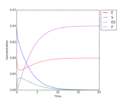
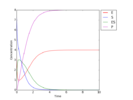
Biochemical reactions - Implemented

diff --git a/BioReactors/templates/BioReactors/restblocks/html/BiochemicalReactionsDoc.html b/BioReactors/templates/BioReactors/restblocks/html/BiochemicalReactionsDoc.html
@@ -99,10 +99,10 @@ reactants and products with time <span class="math">\(t\)</span>:</p>
 </blockquote>
 <p>One solution of the system is shown on the <a class="reference internal" href="#figure" target="_self">figure</a> below.</p>
 <div class="figure align-center" id="figure">
-<img alt="/static/BioReactors/img/ModuleImages/ReactionRateEquations.png" src="/static/BioReactors/img/ModuleImages/ReactionRateEquations.png" />
+<img alt="/static/BioReactors/img/ModuleImages/BiochemicalReactions.png" src="/static/BioReactors/img/ModuleImages/BiochemicalReactions.png" />
 <p class="caption">Michaelis–Menten kinetics: change in concentrations over time for enzyme E, substrate S, complex ES and product P
-with initial concentrations <span class="math">\([E]_0 = 0.1, [S]_0 = 0.2, [ES]_0 = [P]_0 = 0\)</span> and
-rate constants <span class="math">\(k_f = 10.1, k_r = 1.1, k_\mathrm{cat} = 1.1\)</span>.</p>
+with initial concentrations <span class="math">\([E]_0 = 4.0, [S]_0 = 8.0, [ES]_0 = [P]_0 = 0.0\)</span> and
+rate constants <span class="math">\(k_f = 2.0, k_r = 1.0, k_\mathrm{cat} = 1.5\)</span>.</p>
 </div>
 </div>
 <div class="section" id="references">

diff --git a/smo/dynamical_models/bioreactors/BiochemicalReactions.py b/smo/dynamical_models/bioreactors/BiochemicalReactions.py
@@ -30,29 +30,29 @@ class BiochemicalReactions(Simulation):
     """
     def __init__(self, params = None, **kwargs):
         """
-        #params.equations = [Eqs, kForward, kBackward]
-        #params.variables = [Xs, X0s]
+        #params.reactions = [reactions, kForward, kBackward]
+        #params.variables = [variableName, initialValue]
         """
         super(BiochemicalReactions, self).__init__(**kwargs)
         if params == None:
             params = AttributeDict(kwargs)
         
-        # Get the variables Xs = [X1, X2, ..., Xn] 
+        # Get the variables Xs = [X1, X2, ..., Xn] and their initial values
         self.Xs = np.empty(len(params.variables), dtype=(np.str_, 256))
         self.X0s = np.zeros(len(params.variables))
         for i, var in enumerate(params.variables):
             self.Xs[i] = var[0]
             self.X0s[i] = var[1]
         
-        # Get the equations = [[left Xs, right Xs, k, ss, rs, f], ...], where: 
-        # left Xs - the variables of reactants (i.e. the variables of the left parts of the equations)
-        # rigth Xs - the variables of products (i.e. the variables of the right parts of the equations)
+        # Get the reactions = [[left Xs, right Xs, k, ss, rs, f], ...], where: 
+        # left Xs - the variables of reactants (i.e. the variables of the left parts of the reactions)
+        # rigth Xs - the variables of products (i.e. the variables of the right parts of the reactions)
         # k - the rate constant of the reaction
         # ss - the stoichiometric coefficients of reactants  (e.g. [0,1,1,0,...,1])
         # rs - the stoichiometric coefficients of products (e.g. [1,0,...,0])
         # f - the fluxs (e.g. k*X2*X3*...*Xn)
-        self.equations = self.readEquations(params.equations, self.Xs)
-        #for eq in self.equations: print eq
+        self.reactions = self.readReactions(params.reactions, self.Xs)
+        #for reaction in self.reactions: print reaction
         
         # Create a vector with state variable names
         stateVarNames = list(self.Xs) 
@@ -72,58 +72,58 @@ class BiochemicalReactions(Simulation):
         # Set the initial flags
         self.sw0 = [True]
         
-    def readEquations(self, equations, Xs):
-        resEquations = []
-        for rowEq in equations:
-            txtEq = rowEq[0]
-            txtEq_orig = txtEq
-            txtEq = txtEq.replace(" ", "")           
+    def readReactions(self, reactions, Xs):
+        resReactions = []
+        for reaction in reactions:
+            txtReaction = reaction[0]
+            txtReaction_orig = txtReaction
+            txtReaction = txtReaction.replace(" ", "")           
             
-            # Get and check the direction of the equation
-            dirEq =  re.findall("[-=<>]+", txtEq)
-            if len(dirEq) == 0:
-                raise ValueError("\nInvalid equation '{0}'.\nThe direction of the reaction is missing" 
-                    ", use one of {1}".format(txtEq_orig, validReactionDiractions))
-            if len(dirEq) > 1:
-                raise ValueError("\nInvalid equation '{0}'.\nToo many directions of the reaction.".format(txtEq_orig))
+            # Get and check the direction of the reaction
+            dirReaction =  re.findall("[-=<>]+", txtReaction)
+            if len(dirReaction) == 0:
+                raise ValueError("\nInvalid reaction '{0}'.\nThe direction of the reaction is missing" 
+                    ", use one of {1}".format(txtReaction_orig, validReactionDiractions))
+            if len(dirReaction) > 1:
+                raise ValueError("\nInvalid reaction '{0}'.\nToo many directions of the reaction.".format(txtReaction_orig))
             
-            dirEq = dirEq[0]
-            if not (dirEq in validReactionDiractions):
-                raise ValueError("\nInvalid equation '{0}'.\nThe direction of the reaction '{1}' is wrong" 
-                    ", use one of {2}".format(txtEq_orig, dirEq, validReactionDiractions))
+            dirReaction = dirReaction[0]
+            if not (dirReaction in validReactionDiractions):
+                raise ValueError("\nInvalid reaction '{0}'.\nThe direction of the reaction '{1}' is wrong" 
+                    ", use one of {2}".format(txtReaction_orig, dirReaction, validReactionDiractions))
                 
-            kForward = rowEq[1]
-            if kForward == 0.0 and dirEq in forwardReactionDiractions:
-                raise ValueError("\nInvalid equation '{0}'.\nThe direction of the reaction is '{1}', " 
-                    "but the forward rate constant is {2}".format(txtEq_orig, dirEq, kForward))
+            kForward = reaction[1]
+            if kForward == 0.0 and dirReaction in forwardReactionDiractions:
+                raise ValueError("\nInvalid reaction '{0}'.\nThe direction of the reaction is '{1}', " 
+                    "but the forward rate constant is {2}".format(txtReaction_orig, dirReaction, kForward))
                  
-            kBackward = rowEq[2]
-            if kBackward == 0.0 and dirEq in backwardReactionDiractions:
-                raise ValueError("\nInvalid equation '{0}'.\nThe direction of the reaction is '{1}', " 
-                    "but the backward rate constant is {2}".format(txtEq_orig, dirEq, kBackward))
+            kBackward = reaction[2]
+            if kBackward == 0.0 and dirReaction in backwardReactionDiractions:
+                raise ValueError("\nInvalid reaction '{0}'.\nThe direction of the reaction is '{1}', " 
+                    "but the backward rate constant is {2}".format(txtReaction_orig, dirReaction, kBackward))
             
-            # Get and check the equation parts
-            partsEq = re.split("[-=<>]+", txtEq)
-            if len(partsEq) <> 2:
-                raise ValueError("\nInvalid equation '{0}'.".format(txtEq_orig))
+            # Get and check the reaction parts
+            partsReaction = re.split("[-=<>]+", txtReaction)
+            if len(partsReaction) <> 2:
+                raise ValueError("\nInvalid reaction '{0}'.".format(txtReaction_orig))
             
-            # Get and check the Xs of the leftPart of the equation
-            leftPartEq = partsEq[0]
+            # Get and check the Xs of the leftPart of the reaction
+            leftPartEq = partsReaction[0]
             leftXs = leftPartEq.split('+')
             for X in leftXs:
                 if not X in Xs:
-                    raise ValueError("\nInvalid equation '{0}'.\nInvalid variable "
-                        "'{1}', use one of {2}".format(txtEq_orig, X, Xs))
+                    raise ValueError("\nInvalid reaction '{0}'.\nInvalid variable "
+                        "'{1}', use one of {2}".format(txtReaction_orig, X, Xs))
             
-            rightPartEq = partsEq[1]
+            rightPartEq = partsReaction[1]
             rightXs = rightPartEq.split('+')
             for X in rightXs:
                 if not X in Xs:
-                    raise ValueError("\nInvalid equation '{0}'.\nInvalid variable "
-                        "'{1}', use one of {2}".format(txtEq_orig, X, Xs))
+                    raise ValueError("\nInvalid reaction '{0}'.\nInvalid variable "
+                        "'{1}', use one of {2}".format(txtReaction_orig, X, Xs))
             
-            # Add to the equations
-            if dirEq in forwardReactionDiractions:
+            # Add to the reactions
+            if dirReaction in forwardReactionDiractions:
                 f = ""
                 ss = np.zeros(len(Xs))
                 for X in leftXs:
@@ -136,9 +136,9 @@ class BiochemicalReactions(Simulation):
                 for X in rightXs:
                     i = np.where(Xs == X)
                     rs[i] = 1             
-                resEquations.append([leftXs, rightXs, kForward, ss, rs, f])
+                resReactions.append([leftXs, rightXs, kForward, ss, rs, f])
                 
-            if dirEq in backwardReactionDiractions:
+            if dirReaction in backwardReactionDiractions:
                 f = ""
                 ss = np.zeros(len(Xs))
                 for X in rightXs:
@@ -151,25 +151,25 @@ class BiochemicalReactions(Simulation):
                 for X in leftXs:
                     i = np.where(Xs == X)
                     rs[i] = 1          
-                resEquations.append([rightXs, leftXs, kBackward, ss, rs, f])
+                resReactions.append([rightXs, leftXs, kBackward, ss, rs, f])
                 
-        return resEquations
+        return resReactions
     
     def rhs(self, t, y, sw):
         yDot = np.zeros(len(y))           
         try:
             # Compute fluxes
-            fs = np.ones(len(self.equations))
-            for j, eq in enumerate(self.equations):
-                (_leftXs, _rightXs, k, ss, _rs, _f) = self.splitEquation(eq)
+            fs = np.ones(len(self.reactions))
+            for j, eq in enumerate(self.reactions):
+                (_leftXs, _rightXs, k, ss, _rs, _f) = self.splitReaction(eq)
                 fs[j] = k
                 for i in range(len(y)):
                     fs[j] *= np.power(y[i], ss[i])
             
             # Compute state derivatives
             for i in range(len(y)):
-                for j, eq in enumerate(self.equations):
-                    (_leftXs, _rightXs, _k, ss, rs, _f) = self.splitEquation(eq)
+                for j, eq in enumerate(self.reactions):
+                    (_leftXs, _rightXs, _k, ss, rs, _f) = self.splitReaction(eq)
                     S = rs[i] - ss[i]
                     yDot[i] += S*fs[j]
                 
@@ -230,8 +230,6 @@ class BiochemicalReactions(Simulation):
         ax.set_xlabel('Time')
         ax.set_ylabel('Concentration')
         
-        #plt.title('Reaction rate equations')
-        
         plt.show()
         
     def getColors(self):
@@ -259,8 +257,8 @@ class BiochemicalReactions(Simulation):
         # Plot ODEs
         for i, X in enumerate(self.Xs):
             odeTxt = r"${%s}\mathtt{\/}' = "%X
-            for eq in self.equations:
-                (_leftXs, _rightXs, _k, ss, rs, f) = self.splitEquation(eq)
+            for eq in self.reactions:
+                (_leftXs, _rightXs, _k, ss, rs, f) = self.splitReaction(eq)
                 S = rs[i] - ss[i]
                 if S < 0.0:
                     if odeTxt.endswith("= "):
@@ -283,8 +281,8 @@ class BiochemicalReactions(Simulation):
         resTxt = ""
         for i, X in enumerate(self.Xs):
             resTxt += "{0}' = ".format(X)
-            for eq in self.equations:
-                (_leftXs, _rightXs, _k, ss, rs, f) = self.splitEquation(eq)
+            for eq in self.reactions:
+                (_leftXs, _rightXs, _k, ss, rs, f) = self.splitReaction(eq)
                 S = rs[i] - ss[i]
                 if S < 0.0:
                     if resTxt.endswith("= "):
@@ -299,7 +297,7 @@ class BiochemicalReactions(Simulation):
             resTxt += "\n"
         return resTxt
     
-    def splitEquation(self, eq):
+    def splitReaction(self, eq):
         return (eq[0], eq[1], eq[2], eq[3], eq[4], eq[5])
     
 def TestBiochemicalReactions():
@@ -315,8 +313,8 @@ def TestBiochemicalReactions():
     })
     
     # Initialize model parameters
-    dt = np.dtype([('equations', np.str_, 256), ('kForward', np.float64, (1)), ('kBackward', np.float64, (1))])
-    equations = np.array([
+    dt = np.dtype([('reaction', np.str_, 256), ('kForward', np.float64, (1)), ('kBackward', np.float64, (1))])
+    reactions = np.array([
         ("E + S = ES", 10.1, 1.1),
         #("E + S <=> ES", 1.1, 2.2),
         #("E + S <-> ES", 1.1, 2.2),  
@@ -326,7 +324,7 @@ def TestBiochemicalReactions():
         #("ES <= E + P", 0.0, 2.2),
     ], dtype = dt)
     
-    dt_vars = np.dtype([('variables', np.str_, 256), ('initValue', np.float64, (1))])
+    dt_vars = np.dtype([('variableName', np.str_, 256), ('initialValue', np.float64, (1))])
     variables = np.array([
         ('E', 0.1),
         ('S', 0.2),
@@ -335,7 +333,7 @@ def TestBiochemicalReactions():
     ], dtype = dt_vars)
         
     modelParams = AttributeDict({
-        'equations' : equations,
+        'reactions' : reactions,
         'variables' : variables,
     })
     

diff --git a/BioReactors/models/BiochemicalReactions.py b/BioReactors/models/BiochemicalReactions.py
@@ -14,15 +14,11 @@ from smo.web.modules import RestModule
 class BiochemicalReactions(NumericalModel):
     label = "Biochemical reactions"
     description = F.ModelDescription("Solver for elementary biochemical reactions", show = True)
-    figure = F.ModelFigure(src="BioReactors/img/ModuleImages/BiochemicalReactions.png", show = False)
-    #:TODO: (MILEN) Rename:
-    # equations -> reactions
-    # variables -> species
-    
+    figure = F.ModelFigure(src="BioReactors/img/ModuleImages/BiochemicalReactions.png", show = False)   
     
     #1. ############ Inputs ###############
     #1.1 Fields - Input values
-    equations = F.RecordArray((     
+    reactions = F.RecordArray((     
             ('reaction', F.String('E + S -> ES', label = 'Reactions', inputBoxWidth = 200)),           
             ('kForward', F.Quantity('Dimensionless', default = (1.0, '-'), minValue = (0, '-'), label = 'rate constants ->')),
             ('kBackward', F.Quantity('Dimensionless', default = (0.0, '-'), minValue = (0, '-'), label = 'rate constants <-')),
@@ -32,8 +28,8 @@ class BiochemicalReactions(NumericalModel):
         numRows = 2,
         description = 'Biochemical reactions',
     )
-    equationsFG = F.FieldGroup([equations], hideContainer = True, label = "Reactions")
-    equationsSG = F.SuperGroup([equationsFG], label = "Reactions")
+    reactionsFG = F.FieldGroup([reactions], hideContainer = True, label = "Reactions")
+    reactionsSG = F.SuperGroup([reactionsFG], label = "Reactions")
     
     variables = F.RecordArray((                
             ('variableName', F.String('E', label = 'Species (variables)')),
@@ -48,14 +44,14 @@ class BiochemicalReactions(NumericalModel):
     variablesSG = F.SuperGroup([variablesFG], label = "Species")
 
     #1.2 Fields - Settings
-    tFinal = F.Quantity('Time', default = (20, 's'), minValue = (0, 's'), maxValue=(1000, 's'), label = 'simulation time') #:TODO: (MILEN) time unit: day or s
-    tPrint = F.Quantity('Time', default = (0.1, 's'), minValue = (1e-5, 's'), maxValue = (100, 's'), label = 'print interval')
+    tFinal = F.Quantity('Time', default = (0.0, 's'), minValue = (0, 's'), maxValue=(1000, 's'), label = 'simulation time')
+    tPrint = F.Quantity('Time', default = (0.0, 's'), minValue = (1e-5, 's'), maxValue = (100, 's'), label = 'print interval')
     solverFG = F.FieldGroup([tFinal, tPrint], label = 'Solver')
     
     settingsSG = F.SuperGroup([solverFG], label = 'Settings')
     
     #1.4 Model view
-    inputView = F.ModelView(ioType = "input", superGroups = [variablesSG, equationsSG, settingsSG], autoFetch = True)
+    inputView = F.ModelView(ioType = "input", superGroups = [reactionsSG, variablesSG, settingsSG], autoFetch = True)
     
     #2. ############ Results ###############    
     plot = F.PlotView(
@@ -97,13 +93,16 @@ class BiochemicalReactions(NumericalModel):
     modelBlocks = [inputView, resultView]
     
     def __init__(self):
-        self.variables[0] = ('E', 0.1)
-        self.variables[1] = ('S', 0.2)
+        self.variables[0] = ('E', 4.0)
+        self.variables[1] = ('S', 8.0)
         self.variables[2] = ('ES', 0.0)
         self.variables[3] = ('P', 0.0)
         
-        self.equations[0] = ("E + S = ES", 10.1, 1.1)
-        self.equations[1] = ("ES -> E + P", 1.1, 0.0)
+        self.reactions[0] = ("E + S = ES", 2.0, 1.0)
+        self.reactions[1] = ("ES -> E + P", 1.5, 0.0)
+        
+        self.tFinal = 10.0
+        self.tPrint = 0.01
     
     def redefineFileds(self):
         # Create tuples for variables

diff --git a/BioReactors/templates/BioReactors/restblocks/reStructuredText/BiochemicalReactionsDoc.rst b/BioReactors/templates/BioReactors/restblocks/reStructuredText/BiochemicalReactionsDoc.rst
@@ -109,13 +109,13 @@ One solution of the system is shown on the `figure`_ below.
 
 .. _figure:
 
-.. figure:: /static/BioReactors/img/ModuleImages/ReactionRateEquations.png
+.. figure:: /static/BioReactors/img/ModuleImages/BiochemicalReactions.png
    :align: center
  
    
    Michaelis–Menten kinetics: change in concentrations over time for enzyme E, substrate S, complex ES and product P 
-   with initial concentrations :math:`[E]_0 = 0.1, [S]_0 = 0.2, [ES]_0 = [P]_0 = 0` and 
-   rate constants :math:`k_f = 10.1, k_r = 1.1, k_\mathrm{cat} = 1.1`.
+   with initial concentrations :math:`[E]_0 = 4.0, [S]_0 = 8.0, [ES]_0 = [P]_0 = 0.0` and 
+   rate constants :math:`k_f = 2.0, k_r = 1.0, k_\mathrm{cat} = 1.5`.
 
 
 
